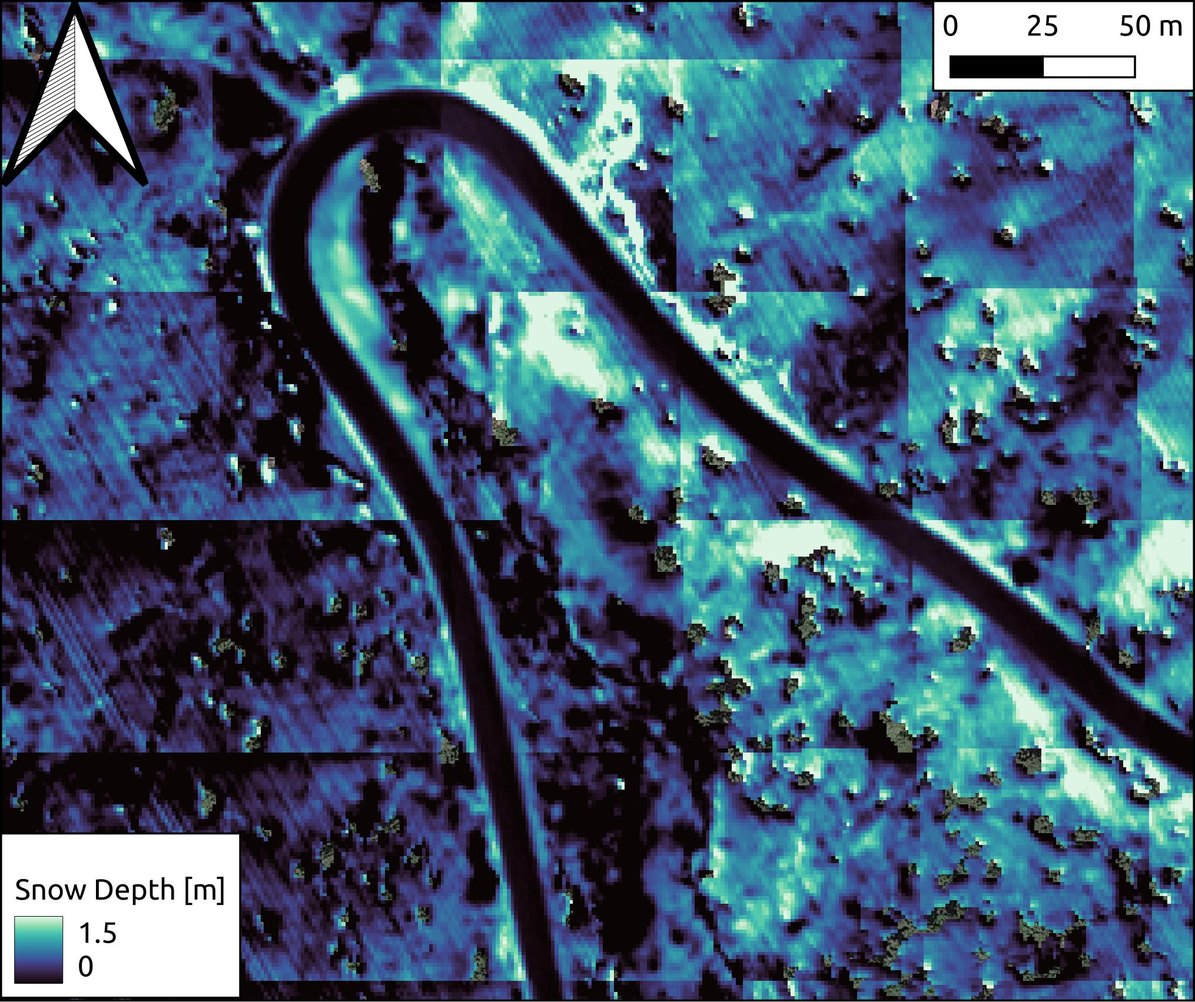
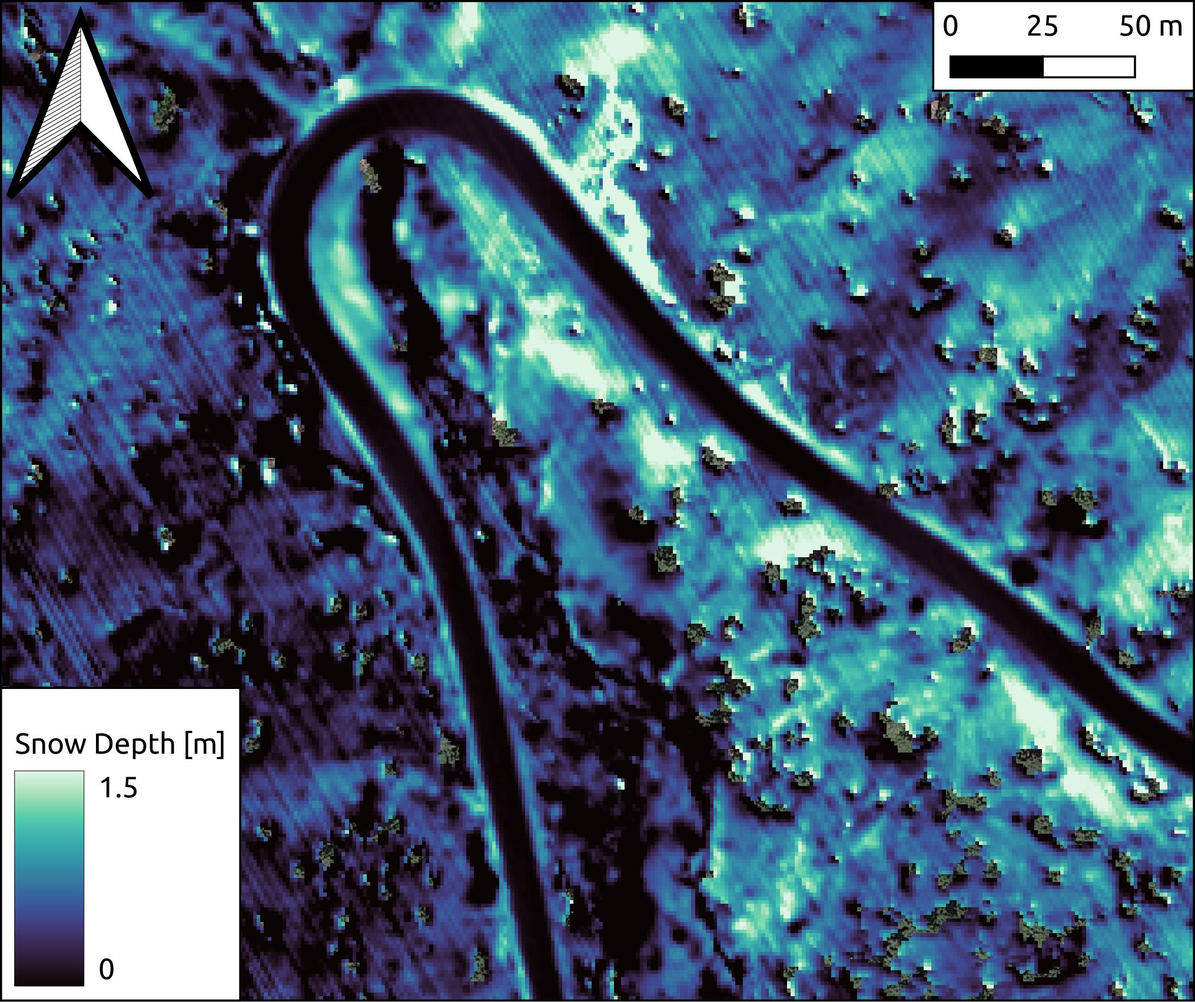
Got rid of a lot of the streaks!

diff --git a/scripts/laz2dem.py b/scripts/laz2dem.py
@@ -12,6 +12,7 @@ import json
 from posixpath import expanduser
 import laspy
 import rioxarray as rxa
+from rasterio.enums import Resampling
 import os
 from os.path import join, basename, exists, dirname, abspath, isdir
 from glob import glob
@@ -189,10 +190,10 @@ def download_dem(las_fp, dem_fp = 'dem.tif'):
     utm_bounds = box(hdr.mins[0], hdr.mins[1], hdr.maxs[0], hdr.maxs[1])
     wgs84_bounds = transform(project, utm_bounds)
     # download dem inside bounds
-    dem_wgs = py3dep.get_map('DEM', wgs84_bounds, resolution = 1, crs = 'epsg:4326')
+    dem_wgs = py3dep.get_map('DEM', wgs84_bounds, resolution=1, crs='EPSG:4326')
     log.debug(f"DEM bounds: {dem_wgs.rio.bounds()}. Size: {dem_wgs.size}")
     # reproject to las crs and save
-    dem_utm = dem_wgs.rio.reproject(crs)
+    dem_utm = dem_wgs.rio.reproject(crs, resampling=Resampling.cubic_spline)
     dem_utm.rio.to_raster(dem_fp)
     log.debug(f"Saved to {dem_fp}")
     return dem_fp, crs, project

diff --git a/scripts/test.py b/scripts/test.py
@@ -1,1 +1,11 @@
-print('ice road truckers')
+import py3dep
+import rioxarray as rio
+
+
+# bounding box of the form (west, south, east, north).
+geom = (607140, 4865656, 607904, 4866835)
+
+dem = py3dep.get_map('DEM',geom, resolution=1, geo_crs='EPSG:32611')
+
+dem.rio.to_raster("dem.tif")
+

diff --git a/README.md b/README.md
@@ -1,5 +1,5 @@
 # ice-road-copters :helicopter:
-The goal of this program is to utilize existing USGS 3DEP 1 meter topography data and Ames Stereo Pipeline (ASP) software to accurately align snow-on airborne lidar point clouds to real world coordinates without the use of ground control points.
+The goal of this program is to utilize existing USGS 3DEP 1m topography data (via [py3dep](https://github.com/hyriver/py3dep)) and Ames Stereo Pipeline ([ASP](https://github.com/NeoGeographyToolkit/StereoPipeline)) software to accurately align snow-on airborne lidar point clouds to real world coordinates without the use of ground control points.
 ![heli_bsu](./docs/heli.png)
 
 For our case, we used prior knowledge that HWY-21 running through our study site is kept snow-free for a majority of the year, thus making excellent virtual ground control points for post-processing in ASP.
